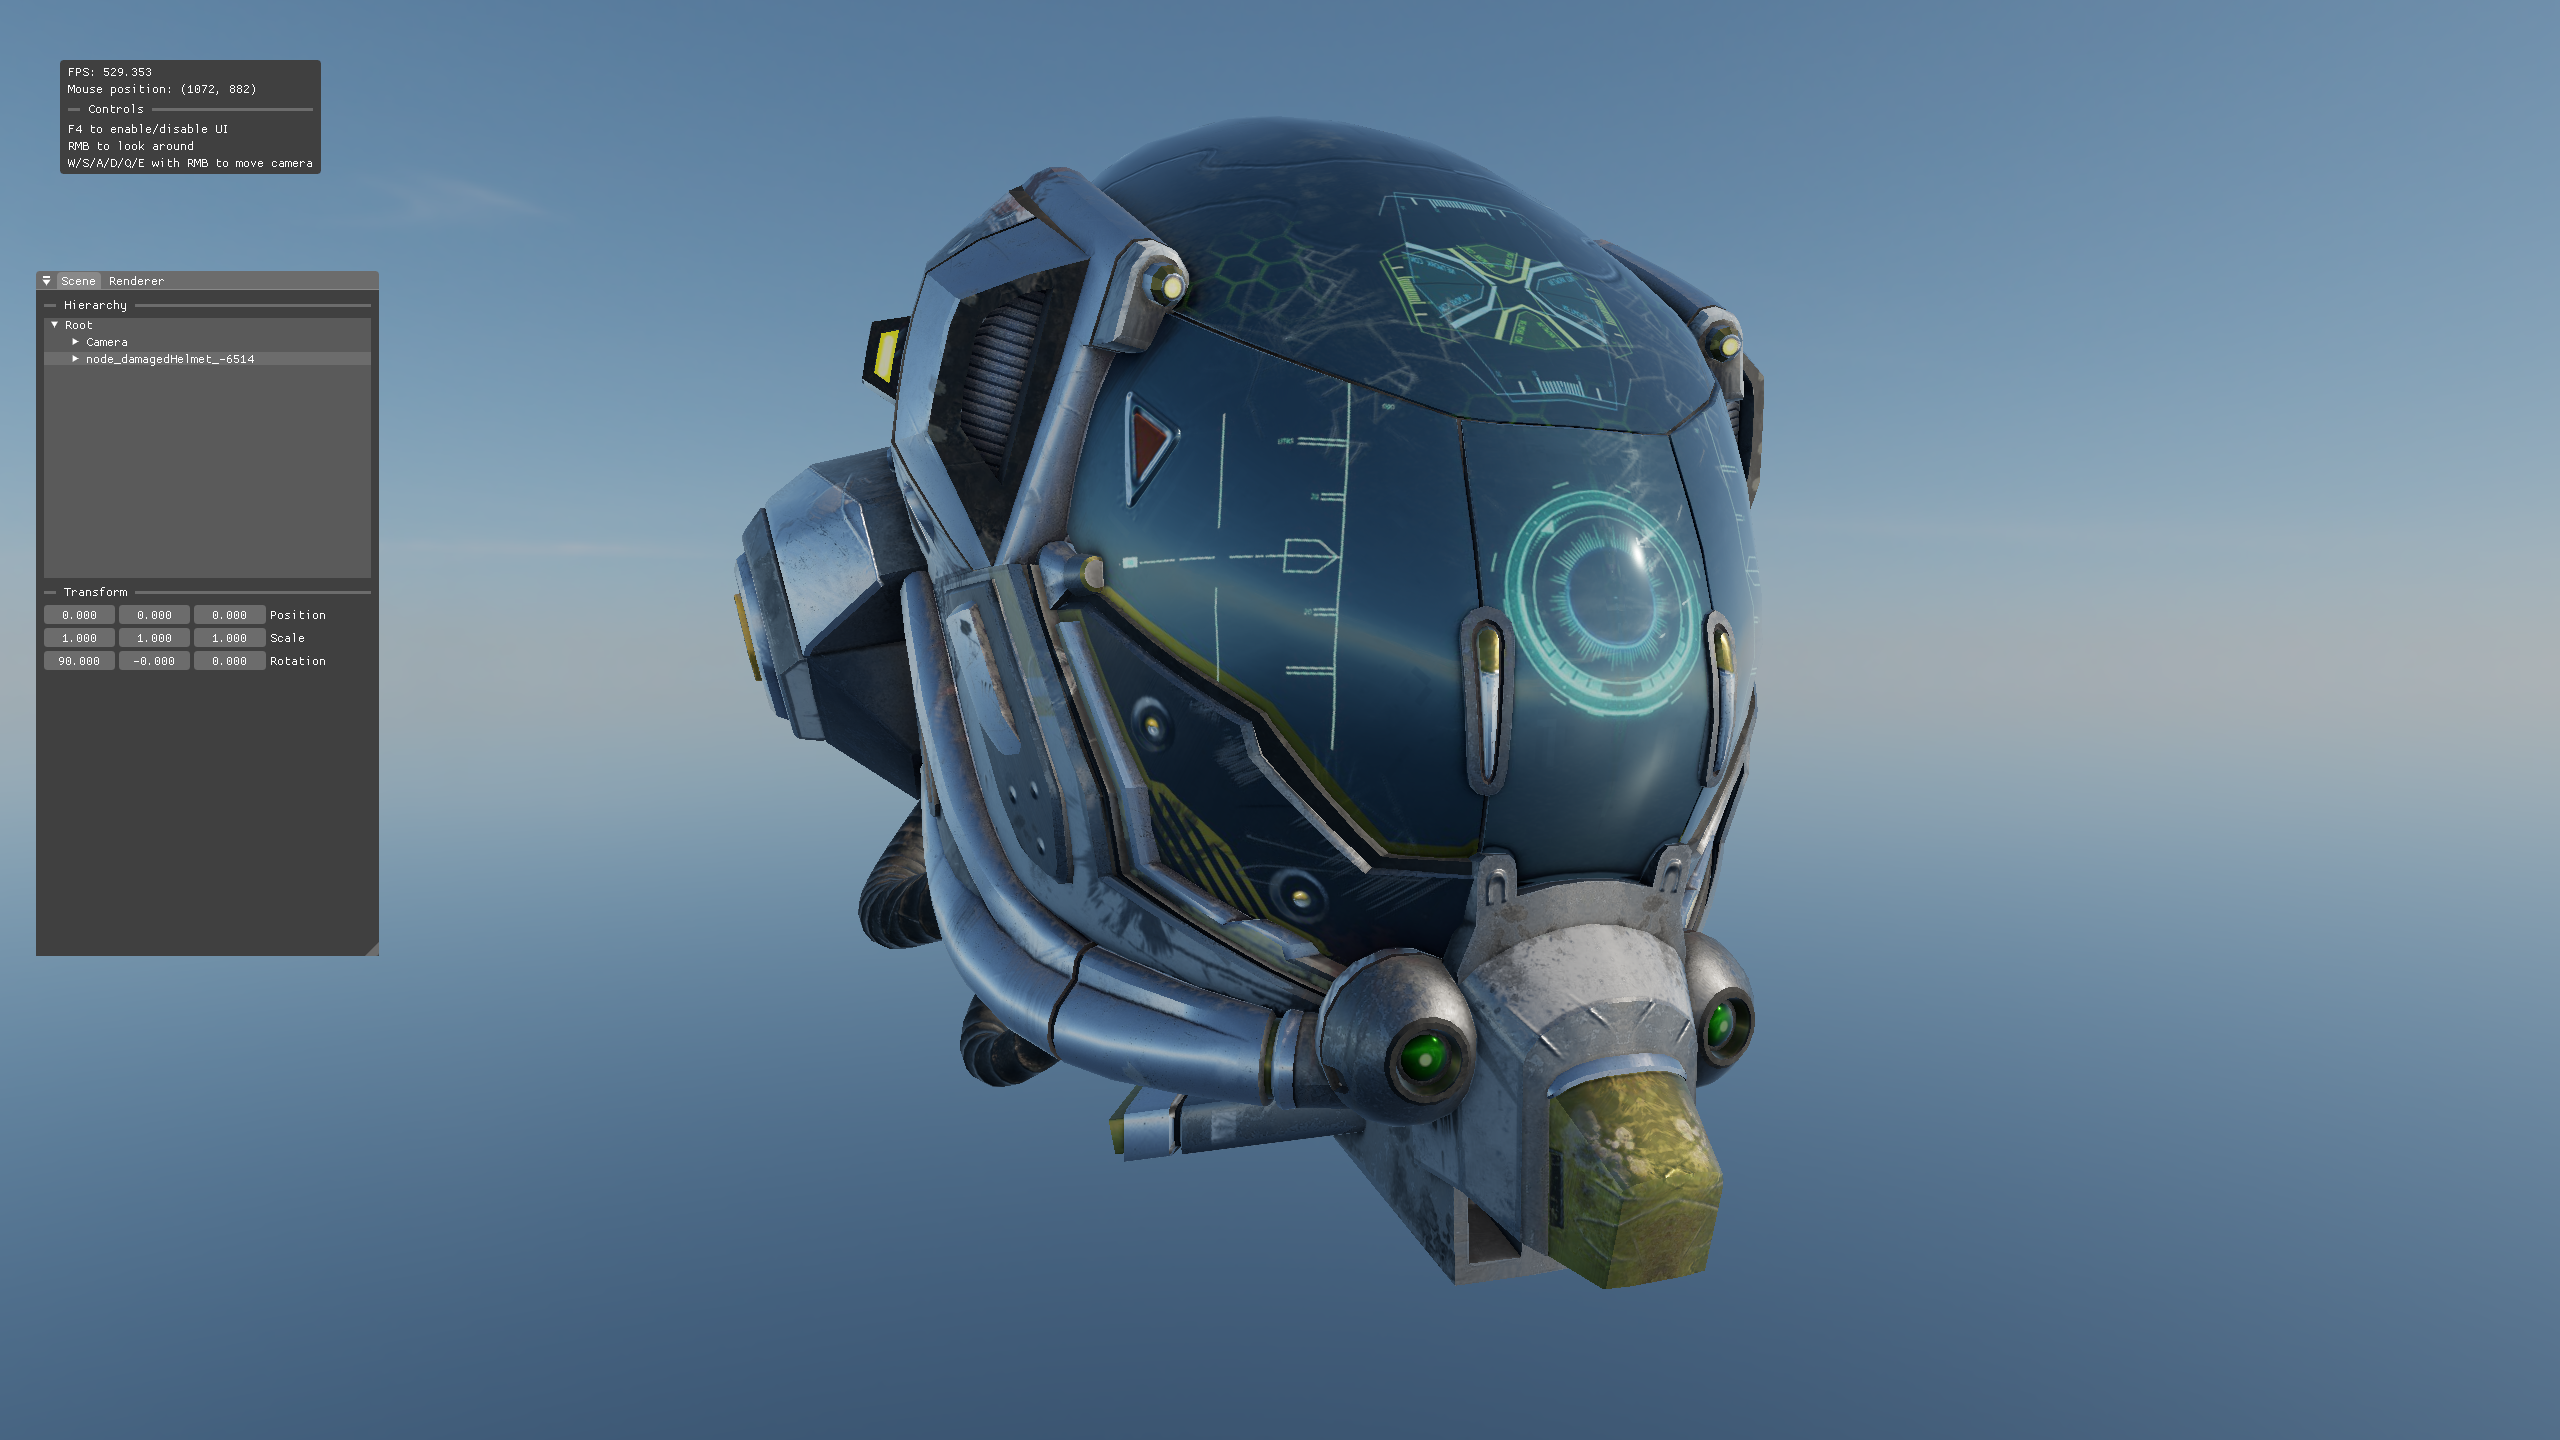
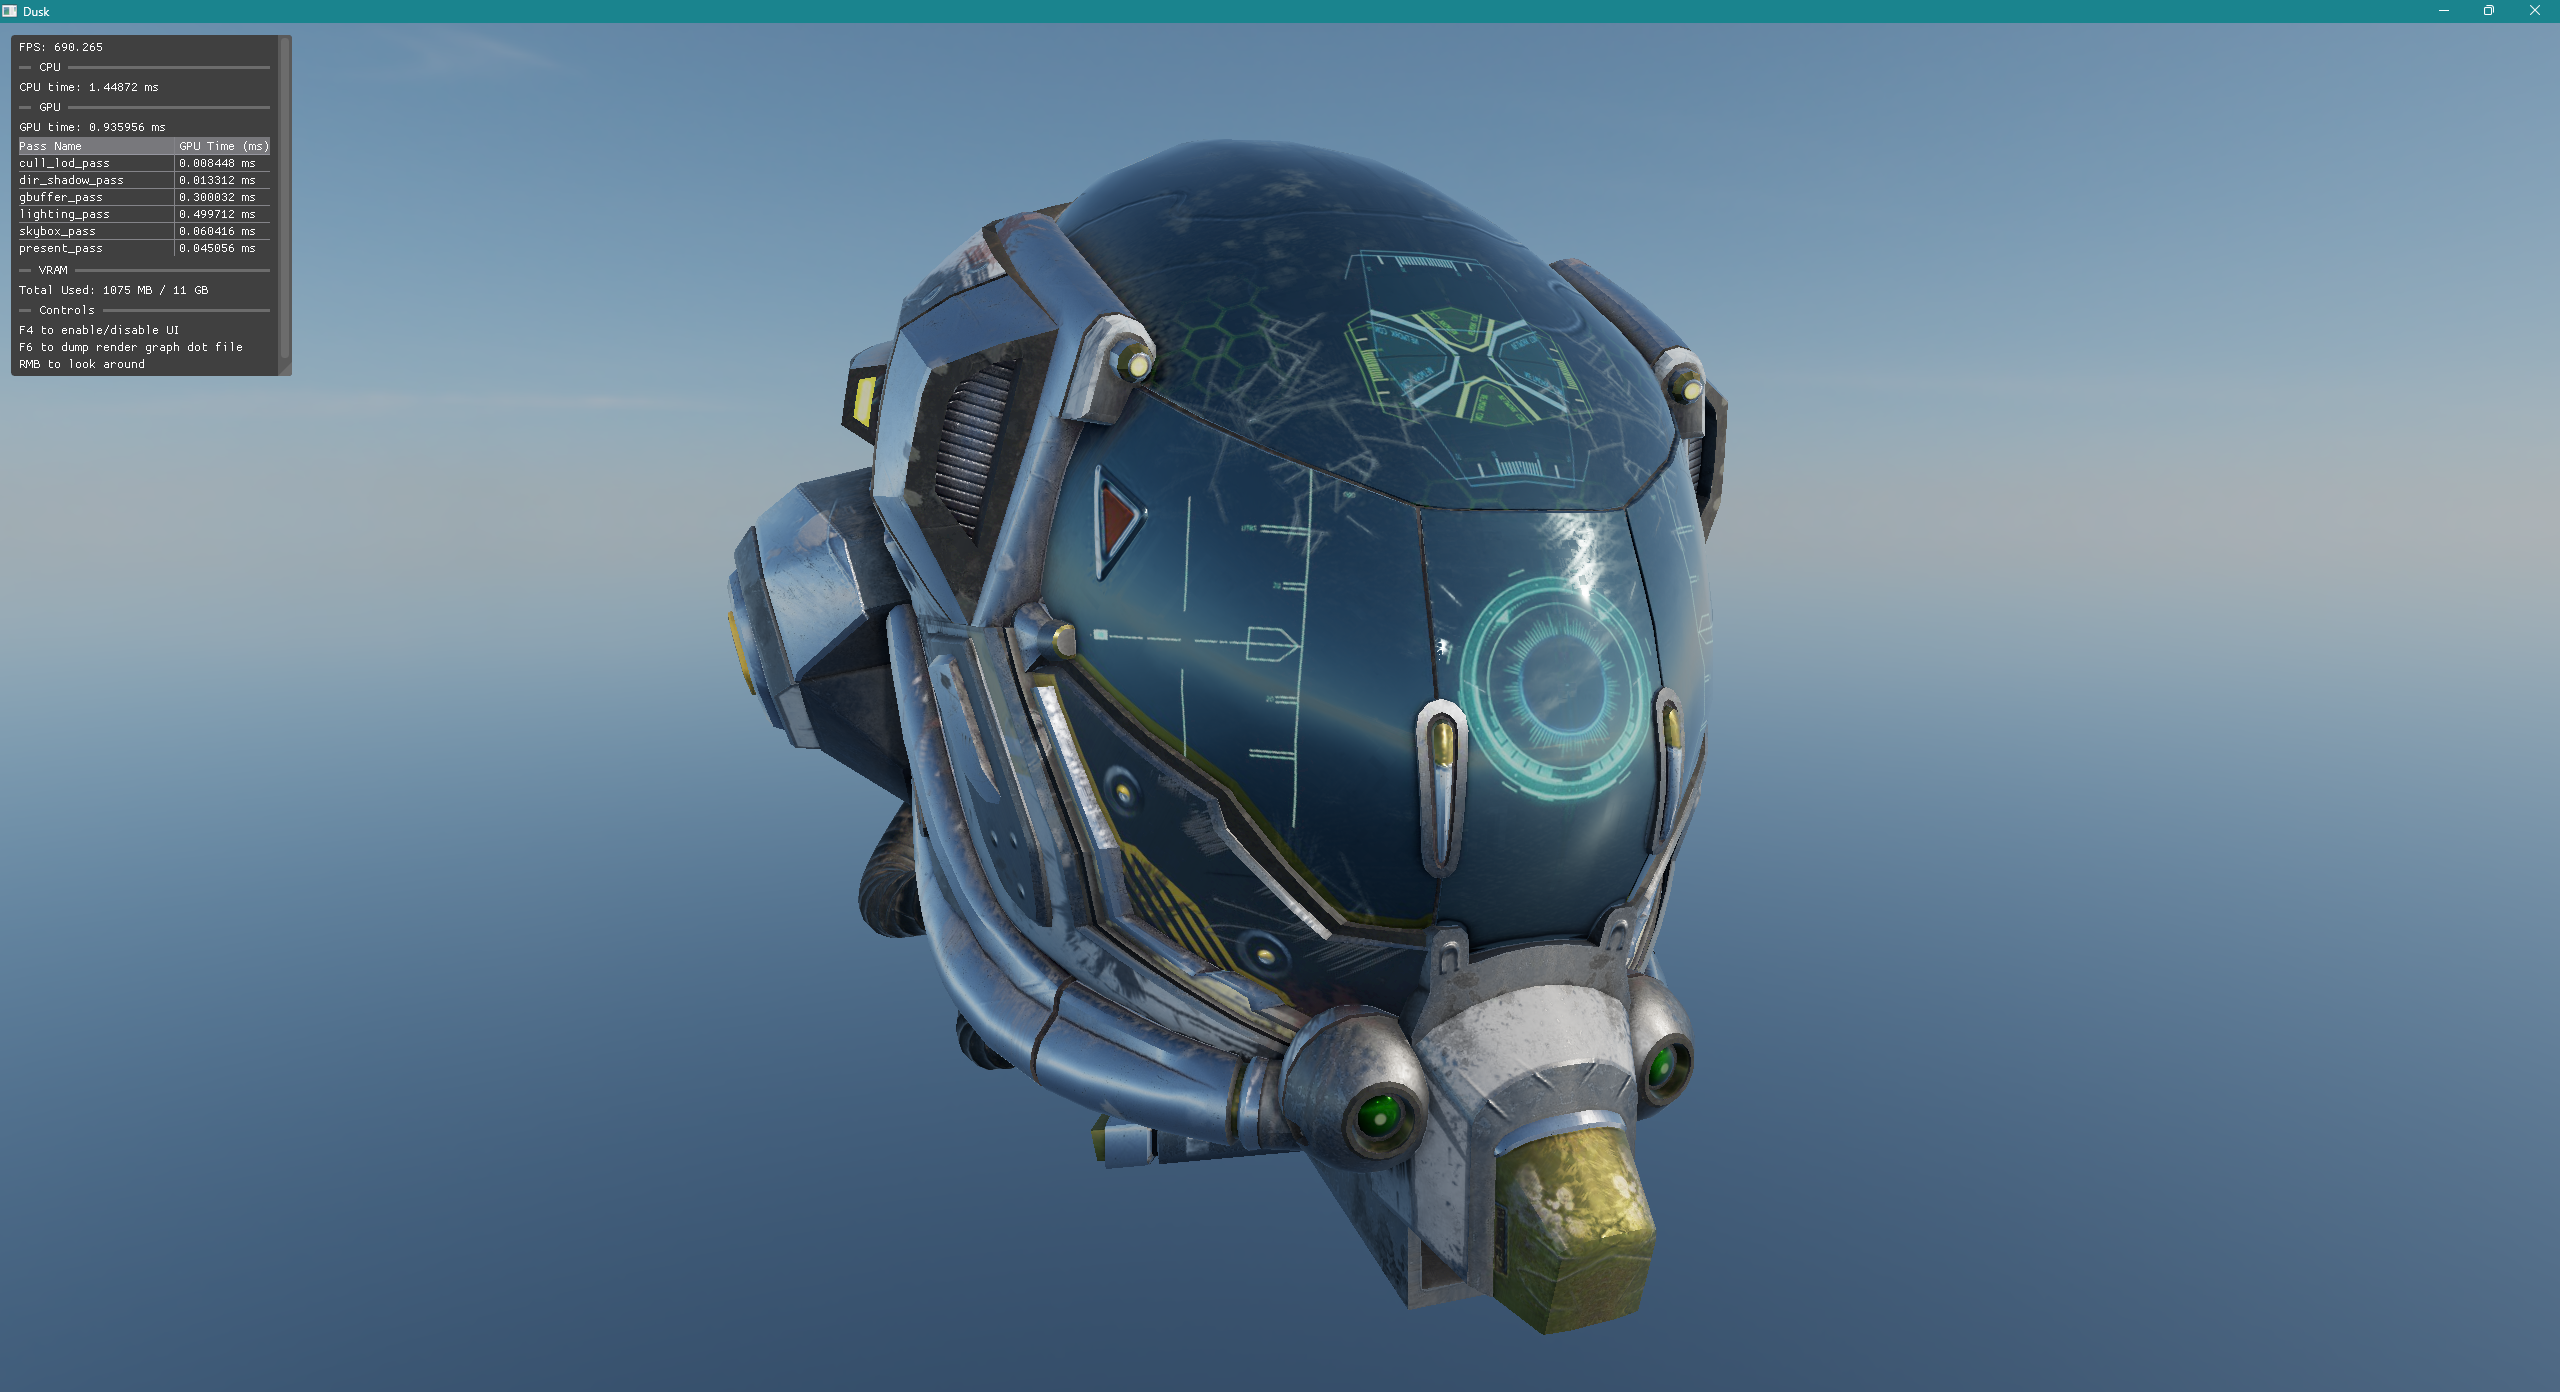
New screenshots

diff --git a/samples/test_scene/test_scene.cpp b/samples/test_scene/test_scene.cpp
@@ -23,18 +23,18 @@ bool TestScene::start()
 {
     // std::string scenePath = "assets/scenes/EnvironmentTest.gltf";
     // std::string scenePath = "assets/scenes/2_cubes.gltf";
-    // std::string scenePath = "assets/scenes/Cube.gltf";
+    // std::string scenePath = "assets/scenes/Scene.gltf";
     std::string scenePath = "D:/resources/scene/bistro_gltf/bistro.gltf";
-    //std::string scenePath
-    //    = "assets/scenes/tea_cup/DiffuseTransmissionTeacup.gltf";
+    // std::string scenePath
+    //     = "assets/scenes/tea_cup/DiffuseTransmissionTeacup.gltf";
     m_testScene = Scene::createSceneFromGLTF(scenePath);
 
     // adding directional light
     auto directionalLight = dusk::createUnique<GameObject>();
     directionalLight->setName("directional_light_0");
     auto& dLight     = directionalLight->addComponent<DirectionalLightComponent>();
-    dLight.direction = glm::vec3(0.22f, -3.15f, -6.f);
-    dLight.color     = glm::vec4(1.f, 1.f, 1.f, 3.2);
+    dLight.direction = glm::vec3(3.3f, -4.2f, 1.685f);
+    dLight.color     = glm::vec4(1.f, 1.f, 1.f, 5.2);
     m_testScene->addGameObject(std::move(directionalLight), m_testScene->getRootId());
 
     // adding point light
@@ -45,10 +45,9 @@ bool TestScene::start()
     pLight.color               = glm::vec4(1.f, 1.f, 1.f, 0.6);
     m_testScene->addGameObject(std::move(pointLight), m_testScene->getRootId());*/
 
-    
-    //auto& cameraController = m_testScene.get()->getMainCameraController();
-    //cameraController.setPosition({ -1500.f, 565.f,-50.f });
-    //cameraController.setViewDirection({ 1.f, -0.2f, -0.1f });
+     auto& cameraController = m_testScene.get()->getMainCameraController();
+     cameraController.setPosition({ -21.58f, 10.19f,-6.78f });
+     cameraController.setViewDirection({ -0.83f, 0.364f, -0.148f });
 
     Engine::get().loadScene(m_testScene.get());
 

diff --git a/dusk/src/ui/editor_ui.cpp b/dusk/src/ui/editor_ui.cpp
@@ -94,8 +94,9 @@ void EditorUI::beginRendering()
 void EditorUI::renderCommonWidgets()
 {
     drawStatsWidget();
+#ifdef DDEBUG
     drawRendererWidget();
-    // ImGui::ShowDemoWindow();
+#endif
 }
 
 void EditorUI::endRendering(VkCommandBuffer cb)
@@ -108,7 +109,9 @@ void EditorUI::endRendering(VkCommandBuffer cb)
 
 void EditorUI::renderSceneWidgets(Scene& scene)
 {
+#ifdef DDEBUG
     drawSceneGraphWidget(scene);
+#endif
 }
 
 void EditorUI::onEvent(Event& ev)

diff --git a/README.md b/README.md
@@ -90,6 +90,9 @@ Dusk is built around the following principles:
 
 ![](docs/sponza-sample.png)
 
+![](docs/bistro-sample.png)
+*Amazon Lumberyard Bistro scene with 4M triangles*
+
 ![Rendergraph](docs/render-graph.svg)
 *Rendergraph for deferred rendering system in Dusk*
 
